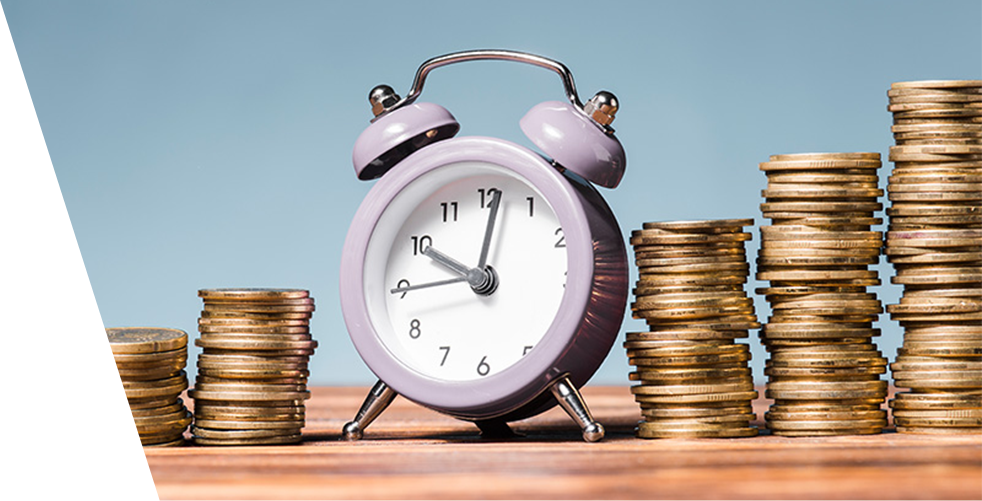
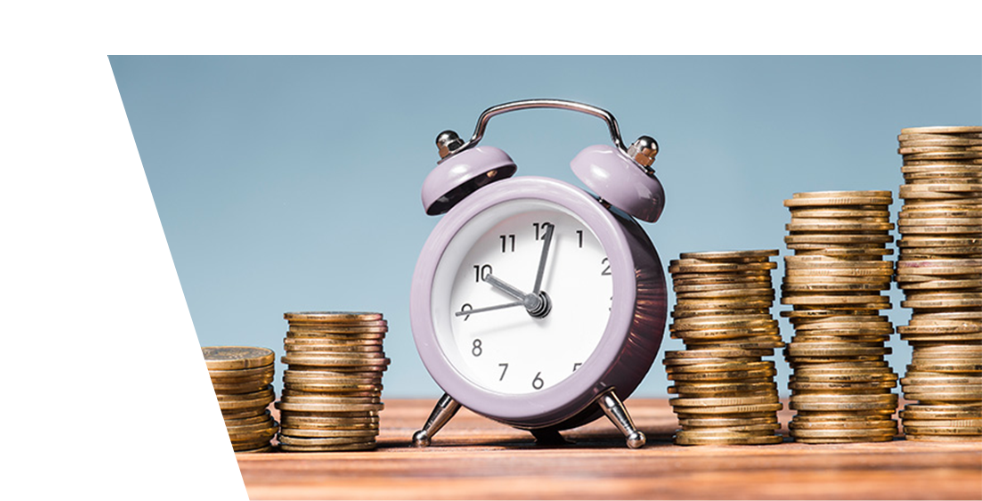
Add some new bullshit

diff --git a/about.html b/about.html
@@ -159,7 +159,7 @@
             <div class="row">
                 <div class="col-lg-12">
                     <div class="section-title about-title">
-                        <h2>A Nossa História</h2>
+                        <u><h2>A Nossa História</h2></u>
                         <br/> 
                         <br/>
                         <p style="text-align:justify">
@@ -178,13 +178,38 @@
                     </div>
                 </div>
             </div>
+            
+            <div class="row">
+                
+                <div class="col-lg-6 col-md-6 col-sm-6">
+                    
+                    <div class="about__item">
+                        <u><h5 style="text-align:center">Missão</h5></u>
+                        <p style="text-align:justify">Ser reconhecido como a melhor e mais eficiente Instituiçao de Microfinanças e como ferramenta de geraçao de emprego e renda sustentavel.</p>
+                    </div>
+                </div>
+                <div class="col-lg-6 col-md-6 col-sm-6">
+                    <div class="about__item">
+                        <u><h5 style="text-align:center">Visão</h5></u>
+                        <p style="text-align:justify">Prestar serviços financeiros as populações de baixa e média renda, com agilidade e competência, visando a criação de valor aos sócios e a sociedade.</p>
+                    </div>
+                </div>
+            </div>
+            
             <div class="about__feature">
+                
+                <div class="col-lg-12">
+                    <div class="about__pic">
+                        <img src="img/about/about-pic.jpg" alt="">
+                    </div>
+                </div>
                 
                 <div class="section-title about-title">
                     <u><h2>Valores</h2></u>
                 </div>
                 
                 <div class="row">
+                    
                     <div class="col-lg-4 col-md-6 col-sm-6">
                         <div class="about__feature__item">
                             <img src="img/about/af-1.png" alt="">
@@ -209,25 +234,7 @@
                 </div>
             </div>
             
-            <div class="row">
-                <div class="col-lg-12">
-                    <div class="about__pic">
-                        <img src="img/about/about-pic.jpg" alt="">
-                    </div>
-                </div>
-                <div class="col-lg-6 col-md-6 col-sm-6">
-                    <div class="about__item">
-                        <u><h5>Visão</h5></u>
-                        <p style="text-align:justify">Prestar serviços financeiros as populações de baixa e média renda, com agilidade e competência, visando a criação de valor aos sócios e a sociedade.</p>
-                    </div>
-                </div>
-                <div class="col-lg-6 col-md-6 col-sm-6">
-                    <div class="about__item">
-                        <u><h5>Missão</h5></u>
-                        <p style="text-align:justify">Ser reconhecido como a melhor e mais eficiente Instituiçao de Microfinanças e como ferramenta de geraçao de emprego e renda sustentavel.</p>
-                    </div>
-                </div>
-            </div>
+            
         </div>
     </section>
     <!-- About Us Section End -->

diff --git a/index.html b/index.html
@@ -176,15 +176,26 @@
                 <div class="col-lg-4">
                     <div class="feature__text">
                         <div class="section-title">
-                            <span>Os Nossos Serviços</span>
-                            <h2>O Podemos lhe oferecer?</h2>
+                           
+                            <h2>A Nossa História</h2>
                         </div>
                         <div class="feature__text__desc">
-                            <p>Venha conhecer de perto os nossos serviços.</p>
-                            <p>Temos uma vasta gama de productos adequeados a sua realidade do dia-a-dia, propensos para quem não gosta de perder tempo.</p>
+                            <p tyle="text-align:justify">O AC MicroBanco Lda, Fundada em 5 de Maio 2012, autorizada e supervisionada pelo Banco de Mocambique é especializada na prestação de serviços de crédito. 
+                            Emergiu da vontade e conhecimentos de um grupo de profissionais com vasta experiência nas mais variadas áreas de trabalho.</p>
                         </div>
                         <div class="feature__text__btn">
-                            <a href="#" class="primary-btn">Saiba mais</a>
+                            <a href="about.html" class="primary-btn">Saiba mais</a>
+                        </div>
+                        <br>
+                        <div class="section-title">
+                            <!--<span>Visão e Missão</span>-->
+                            <h2>Visão e Missão</h2>
+                        </div>
+                        <div class="feature__text__desc">
+                            <p tyle="text-align:justify">Prestar serviços financeiros as populações de baixa e média renda, com agilidade e competência, visando a criação de valor aos sócios e a sociedade.</p>
+                        </div>
+                        <div class="feature__text__btn">
+                            <a href="about.html" class="primary-btn">Saiba mais</a>
                         </div>
                     </div>
                 </div>

diff --git a/css/style.css b/css/style.css
@@ -759,7 +759,7 @@ ol {
 	top: 50%;
 	width: 605px;
 	height: 404px;
-	/*background-image: url(../img/feature/car.png);*/
+	background-image: url(../img/feature/car-2.png);
 	content: "";
 	-webkit-transform: translate(-300px, -202px);
 	-ms-transform: translate(-300px, -202px);
@@ -1601,12 +1601,13 @@ ol {
 -----------------------*/
 
 .about {
-	padding-bottom: 70px;
+	padding-bottom: 20px;
     
 }
 
 .section-title.about-title h2 {
-	line-height: 55px;
+	line-height: 30px;
+    color: #ed1c24;
 }
 
 .section-title.about-title p {
@@ -1622,16 +1623,16 @@ ol {
 
 .about__feature__item {
 	text-align: left;
-	margin-bottom: 30px;
-	padding: 0 20px;
-     font-size: 22px;
+	margin-bottom: 10px;
+	padding: 0 30px;
+     font-size: 20px;
 }
 
 .about__feature__item h5 {
-	font-size: 23px;
+	font-size: 20px;
 	color: #353535;
 	font-weight: 700;
-	margin-top: 30px;
+	margin-top: 10px;
 	margin-bottom: 15px;
 }
 
@@ -1650,22 +1651,21 @@ ol {
 }
 
 .about__item {
-	margin-bottom: 30px;
+	margin-bottom: 10px;
     
 }
 
 .about__item h5 {
-	font-size: 22px;
-	color: #353535;
+	font-size: 34px;
+	color: #ed1c24;
 	font-weight: 700;
-	margin-bottom: 15px;
+	margin-bottom: 30px;
 }
 
 .about__item p {
-	margin-bottom: 0;
+	margin-bottom: 10;
      font-size: 20px;
-    
-}
+    }
 
 /*---------------------
   Call

diff --git a/sass/_home-page.scss b/sass/_home-page.scss
@@ -13,7 +13,7 @@
     top: 50%;
     width: 605px;
     height: 404px;
-    /*background-image: url(../img/feature/car-1.png);*/
+    background-image: url(../img/feature/car-1.png);
     content: '';
     -webkit-transform: translate(-300px, -202px);
     transform: translate(-300px, -202px);

diff --git a/sass/_about.scss b/sass/_about.scss
@@ -56,8 +56,8 @@
     margin-bottom: 30px;
 
     h5 {
-        font-size: 20px;
-        color: $heading-color;
+        font-size: 22px;
+        color: #ed1c24;
         font-weight: 700;
         margin-bottom: 15px;
     }
